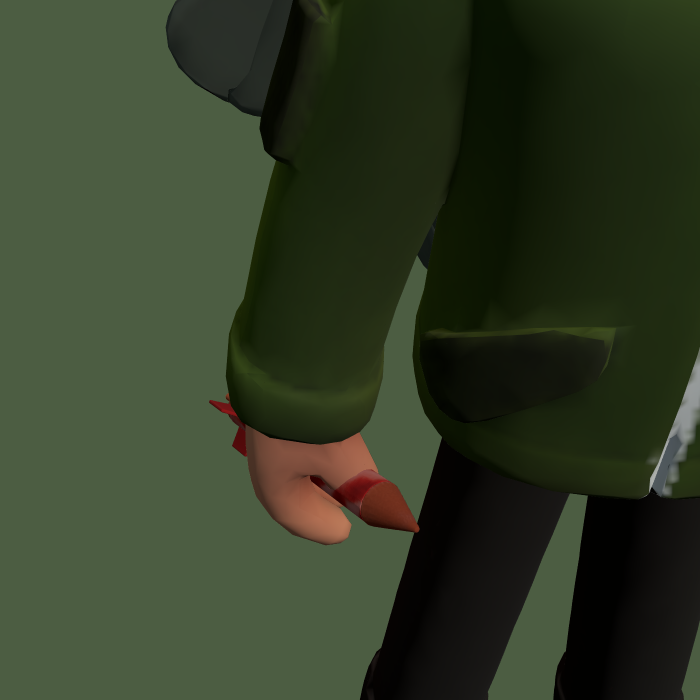
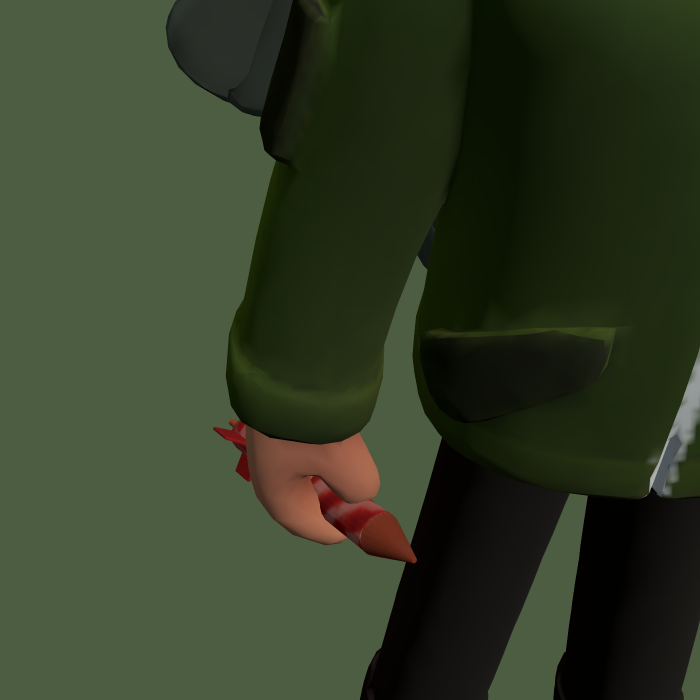
Drop it out of the thumb web and into the fingers
Magnified far enough to see the contact, it was riding across the top of the
fist between thumb and forefinger, with the curled fingers hanging below it
doing nothing - hence hanging in the hand rather than held by it. The fins are
well clear below now, so there was room to lower it: 0.15 of the fist's height
under its middle puts the tube through the finger curl, with the fingers
visibly in front of it and the nose out past them.

Checked at front, 45, side and 135, all at a crop large enough to see where the
skin meets the tube.

Claude-Session: https://claude.ai/code/session_01AbPj1ecgWZX5NRERgq23EA

Changed region(s): [[0.45, 0.66, 0.6, 0.81], [0.3, 0.57, 0.36, 0.69]]

diff --git a/src/player/avatar.js b/src/player/avatar.js
@@ -36,7 +36,7 @@ const SCAN_ROCKET_FOOT = 0.105;
  * fingertips to wrist. A closed hand holds a stick through the ring its curled
  * fingers make, which is above the middle of the fist.
  */
-const GRIP_RISE = 0.15;
+const GRIP_RISE = -0.15;
 /**
  * And how much wider than the fist the tube is drawn, so the fingers close
  * round something rather than beside it.
